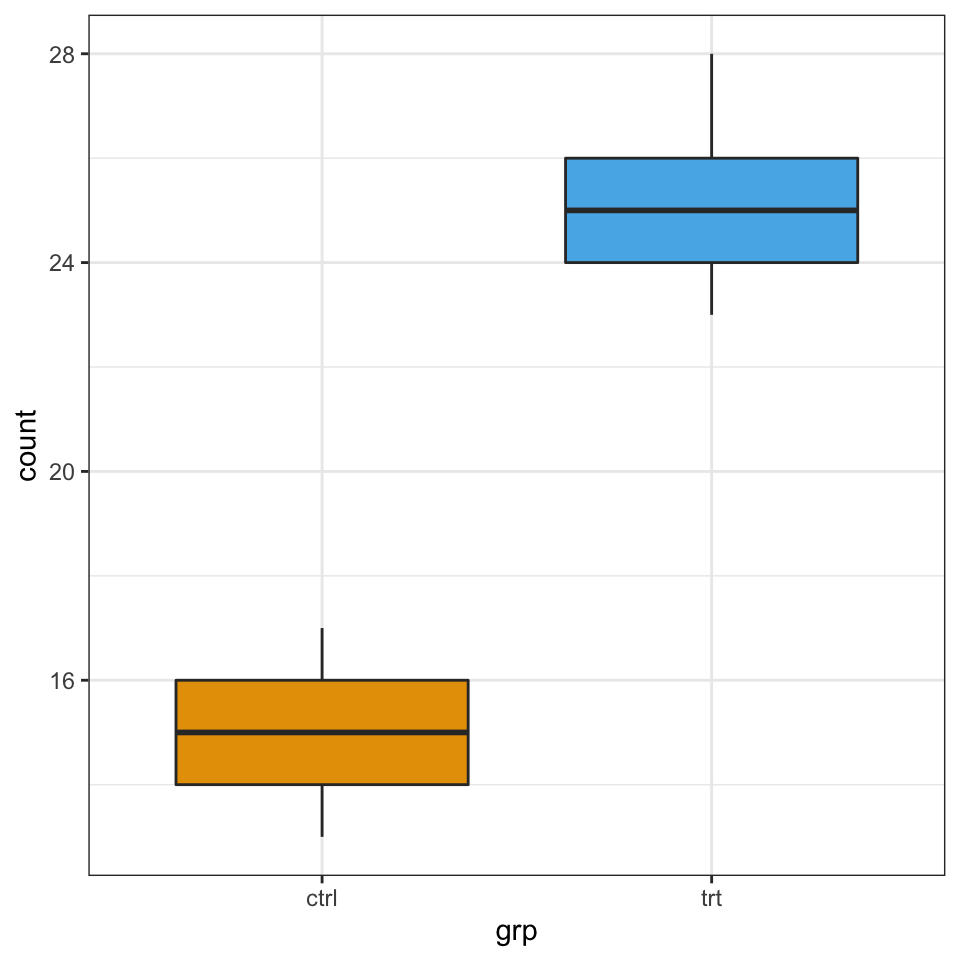
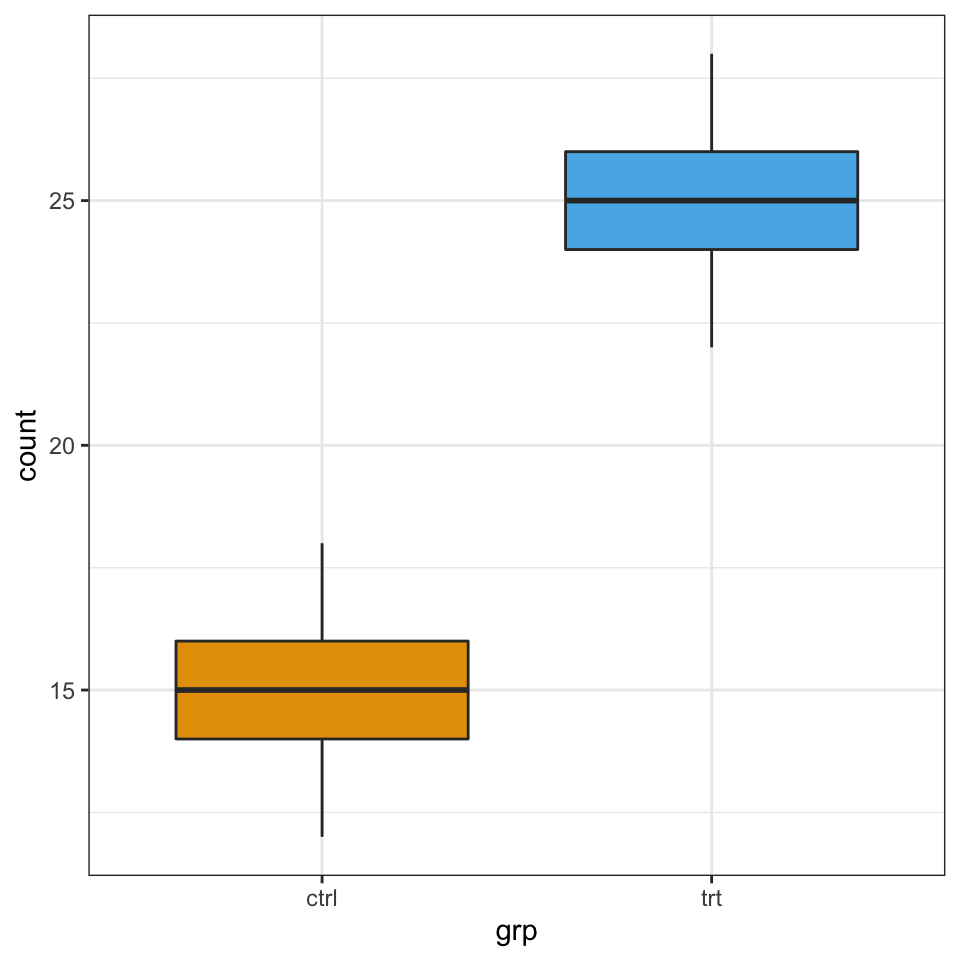
added text

diff --git a/docs/eda-distribution.html b/docs/eda-distribution.html
@@ -563,8 +563,11 @@ div.csl-indent {
   <li><a href="#daten-f%C3%BCr-verteilungen" id="toc-daten-für-verteilungen" class="nav-link" data-scroll-target="#daten-f%C3%BCr-verteilungen"> <span class="header-section-number">18.2</span> Daten für Verteilungen</a></li>
   <li><a href="#sec-normal" id="toc-sec-normal" class="nav-link" data-scroll-target="#sec-normal"> <span class="header-section-number">18.3</span> Die Normalverteilung</a></li>
   <li><a href="#die-standardnormalverteilung" id="toc-die-standardnormalverteilung" class="nav-link" data-scroll-target="#die-standardnormalverteilung"> <span class="header-section-number">18.4</span> Die Standardnormalverteilung</a></li>
-  <li><a href="#sec-poisson" id="toc-sec-poisson" class="nav-link" data-scroll-target="#sec-poisson"> <span class="header-section-number">18.5</span> Die Poissonverteilung</a></li>
-  <li><a href="#weitere-verteilungen" id="toc-weitere-verteilungen" class="nav-link" data-scroll-target="#weitere-verteilungen"> <span class="header-section-number">18.6</span> Weitere Verteilungen</a></li>
+  <li><a href="#sec-t-dist" id="toc-sec-t-dist" class="nav-link" data-scroll-target="#sec-t-dist"> <span class="header-section-number">18.5</span> Die t-Verteilung</a></li>
+  <li><a href="#sec-poisson" id="toc-sec-poisson" class="nav-link" data-scroll-target="#sec-poisson"> <span class="header-section-number">18.6</span> Die Poissonverteilung</a></li>
+  <li><a href="#sec-uniform" id="toc-sec-uniform" class="nav-link" data-scroll-target="#sec-uniform"> <span class="header-section-number">18.7</span> Die uniforme Verteilung</a></li>
+  <li><a href="#sec-binom" id="toc-sec-binom" class="nav-link" data-scroll-target="#sec-binom"> <span class="header-section-number">18.8</span> Die Binominalverteilung</a></li>
+  <li><a href="#weitere-verteilungen" id="toc-weitere-verteilungen" class="nav-link" data-scroll-target="#weitere-verteilungen"> <span class="header-section-number">18.9</span> Weitere Verteilungen</a></li>
   <li><a href="#referenzen" id="toc-referenzen" class="nav-link" data-scroll-target="#referenzen">Referenzen</a></li>
   </ul></nav>
     </div>
@@ -584,7 +587,7 @@ div.csl-indent {
   </div>
   
 
-</header><p><em>Version vom November 11, 2022 um 15:28:11</em></p>
+</header><p><em>Version vom November 14, 2022 um 11:16:39</em></p>
 <div class="cell">
 
 </div>
@@ -877,8 +880,44 @@ div.csl-indent {
 \mathcal{N}(0, 1)
 \]</span></p>
 <p>Folgende Eigenschaften sind der Standardnormalverteilung gegeben. Die Standardnormalverteilung hat eine Fläche von <span class="math inline">\(A = 1\)</span> unter der Kurve. Darüber hinaus liegen 95% der Werte zwischen -2 und 2. Die einzelnen Werte einer Standardnormalverteilung nennen wir <span class="math inline">\(z\)</span>-Werte. Wenn wir eine beliebige Normalverteilung in eine Standardnormalverteilung überführen wollen so machen wir die Umwandlung mit der <span class="math inline">\(z\)</span>-Transformation.</p>
-</section><section id="sec-poisson" class="level2 page-columns page-full" data-number="18.5"><h2 data-number="18.5" class="anchored" data-anchor-id="sec-poisson">
-<span class="header-section-number">18.5</span> Die Poissonverteilung</h2>
+<p><span class="math inline">\(Pr(X \leq x)\)</span> mit <code>lower.tail = TRUE</code></p>
+<p><span class="math inline">\(Pr(X &gt; x)\)</span> mit <code>lower.tail = FALSE</code></p>
+<div class="cell">
+<div class="sourceCode" id="cb5"><pre class="downlit sourceCode r code-with-copy"><code class="sourceCode R"><span><span class="fu"><a href="https://rdrr.io/r/stats/Normal.html">pnorm</a></span><span class="op">(</span>q <span class="op">=</span> <span class="fl">1.96</span>, mean <span class="op">=</span> <span class="fl">0</span>, sd <span class="op">=</span> <span class="fl">1</span>, lower.tail <span class="op">=</span> <span class="cn">FALSE</span><span class="op">)</span> <span class="op">%&gt;%</span> <span class="fu"><a href="https://rdrr.io/r/base/Round.html">round</a></span><span class="op">(</span><span class="fl">3</span><span class="op">)</span></span></code><button title="In die Zwischenablage kopieren" class="code-copy-button"><i class="bi"></i></button></pre></div>
+<div class="cell-output cell-output-stdout">
+<pre><code>[1] 0.025</code></pre>
+</div>
+</div>
+<div class="cell">
+<div class="sourceCode" id="cb7"><pre class="downlit sourceCode r code-with-copy"><code class="sourceCode R"><span><span class="fu"><a href="https://rdrr.io/r/stats/Normal.html">qnorm</a></span><span class="op">(</span>p <span class="op">=</span> <span class="fu"><a href="https://rdrr.io/r/base/c.html">c</a></span><span class="op">(</span><span class="fl">0.025</span>, <span class="fl">0.05</span><span class="op">)</span>, mean <span class="op">=</span> <span class="fl">0</span>, sd <span class="op">=</span> <span class="fl">1</span>, lower.tail <span class="op">=</span> <span class="cn">FALSE</span><span class="op">)</span> <span class="op">%&gt;%</span> <span class="fu"><a href="https://rdrr.io/r/base/Round.html">round</a></span><span class="op">(</span><span class="fl">3</span><span class="op">)</span></span></code><button title="In die Zwischenablage kopieren" class="code-copy-button"><i class="bi"></i></button></pre></div>
+<div class="cell-output cell-output-stdout">
+<pre><code>[1] 1.960 1.645</code></pre>
+</div>
+</div>
+<div class="cell">
+<div class="sourceCode" id="cb9"><pre class="downlit sourceCode r code-with-copy"><code class="sourceCode R"><span><span class="fu"><a href="https://rdrr.io/r/stats/Normal.html">qnorm</a></span><span class="op">(</span>p <span class="op">=</span> <span class="fl">0.05</span>, mean <span class="op">=</span> <span class="fl">0</span>, sd <span class="op">=</span> <span class="fl">1</span>, lower.tail <span class="op">=</span> <span class="cn">TRUE</span><span class="op">)</span> <span class="op">%&gt;%</span> <span class="fu"><a href="https://rdrr.io/r/base/Round.html">round</a></span><span class="op">(</span><span class="fl">3</span><span class="op">)</span></span></code><button title="In die Zwischenablage kopieren" class="code-copy-button"><i class="bi"></i></button></pre></div>
+<div class="cell-output cell-output-stdout">
+<pre><code>[1] -1.645</code></pre>
+</div>
+</div>
+</section><section id="sec-t-dist" class="level2" data-number="18.5"><h2 data-number="18.5" class="anchored" data-anchor-id="sec-t-dist">
+<span class="header-section-number">18.5</span> Die t-Verteilung</h2>
+<p><span class="math inline">\(Pr(X \leq x)\)</span> mit <code>lower.tail = TRUE</code></p>
+<p><span class="math inline">\(Pr(X &gt; x)\)</span> mit <code>lower.tail = FALSE</code></p>
+<div class="cell">
+<div class="sourceCode" id="cb11"><pre class="downlit sourceCode r code-with-copy"><code class="sourceCode R"><span><span class="fu"><a href="https://rdrr.io/r/stats/TDist.html">pt</a></span><span class="op">(</span>q <span class="op">=</span> <span class="fl">2.571</span>, df <span class="op">=</span> <span class="fl">5</span>, lower.tail <span class="op">=</span> <span class="cn">FALSE</span><span class="op">)</span> <span class="op">%&gt;%</span> <span class="fu"><a href="https://rdrr.io/r/base/Round.html">round</a></span><span class="op">(</span><span class="fl">3</span><span class="op">)</span></span></code><button title="In die Zwischenablage kopieren" class="code-copy-button"><i class="bi"></i></button></pre></div>
+<div class="cell-output cell-output-stdout">
+<pre><code>[1] 0.025</code></pre>
+</div>
+</div>
+<div class="cell">
+<div class="sourceCode" id="cb13"><pre class="downlit sourceCode r code-with-copy"><code class="sourceCode R"><span><span class="fu"><a href="https://rdrr.io/r/stats/TDist.html">qt</a></span><span class="op">(</span>p <span class="op">=</span> <span class="fu"><a href="https://rdrr.io/r/base/c.html">c</a></span><span class="op">(</span><span class="fl">0.025</span><span class="op">)</span>, df <span class="op">=</span> <span class="fu"><a href="https://rdrr.io/r/base/c.html">c</a></span><span class="op">(</span><span class="fl">5</span>, <span class="fl">10</span>, <span class="fl">20</span>, <span class="fl">100</span><span class="op">)</span>, lower.tail <span class="op">=</span> <span class="cn">FALSE</span><span class="op">)</span> <span class="op">%&gt;%</span> <span class="fu"><a href="https://rdrr.io/r/base/Round.html">round</a></span><span class="op">(</span><span class="fl">3</span><span class="op">)</span></span></code><button title="In die Zwischenablage kopieren" class="code-copy-button"><i class="bi"></i></button></pre></div>
+<div class="cell-output cell-output-stdout">
+<pre><code>[1] 2.571 2.228 2.086 1.984</code></pre>
+</div>
+</div>
+</section><section id="sec-poisson" class="level2 page-columns page-full" data-number="18.6"><h2 data-number="18.6" class="anchored" data-anchor-id="sec-poisson">
+<span class="header-section-number">18.6</span> Die Poissonverteilung</h2>
 <p>Eine weitere wichtige Verteilung ist die Poissonverteilung. Die Poissonverteilung ist eine diskrete Verteilung. Daher kommen nur ganze Zahlen vor. Damit bildet die Poissonverteilung die Zähldaten ab. Wenn wir also etwas Zählen, dann ist diese Variable mit den gezählten Ergebnissen poissonverteilt. Im Folgenden sehen wir die Poissonverteilung einmal dargestellt.</p>
 <p><span class="math display">\[
 \mathcal{Pois}(\lambda)
@@ -917,7 +956,7 @@ div.csl-indent {
 </div>
 <p>Wir können die Funktion <code><a href="https://rdrr.io/r/stats/Poisson.html">rpois()</a></code> nutzen um uns zufällige Zahlen aus der Poissonverteilung ziehen zu lassen. Dazu müssen wir mit <code>n =</code> spezifizieren wie viele Beobachtungen wir wollen und den Mittelwert <code>lambda =</code> angeben. Im Folgenden einmal ein Beispiel für die Nutzung der Funktion <code><a href="https://rdrr.io/r/stats/Poisson.html">rpois()</a></code> mit zehn Werten.</p>
 <div class="cell">
-<div class="sourceCode" id="cb5"><pre class="downlit sourceCode r code-with-copy"><code class="sourceCode R"><span><span class="fu"><a href="https://rdrr.io/r/stats/Poisson.html">rpois</a></span><span class="op">(</span>n <span class="op">=</span> <span class="fl">10</span>, lambda <span class="op">=</span> <span class="fl">5</span><span class="op">)</span></span></code><button title="In die Zwischenablage kopieren" class="code-copy-button"><i class="bi"></i></button></pre></div>
+<div class="sourceCode" id="cb15"><pre class="downlit sourceCode r code-with-copy"><code class="sourceCode R"><span><span class="fu"><a href="https://rdrr.io/r/stats/Poisson.html">rpois</a></span><span class="op">(</span>n <span class="op">=</span> <span class="fl">10</span>, lambda <span class="op">=</span> <span class="fl">5</span><span class="op">)</span></span></code><button title="In die Zwischenablage kopieren" class="code-copy-button"><i class="bi"></i></button></pre></div>
 <div class="cell-output cell-output-stdout">
 <pre><code> [1] 3 5 4 5 3 3 9 3 5 5</code></pre>
 </div>
@@ -991,8 +1030,30 @@ div.csl-indent {
 <p></p><figcaption aria-hidden="true" class="figure-caption">Abbildung 18.8— Histogramme der am liebsten gemochten Gummibärchchen im Vergleich zum Inhalt der Tütchen.</figcaption><p></p>
 </figure>
 </div>
-</section><section id="weitere-verteilungen" class="level2 page-columns page-full" data-number="18.6"><h2 data-number="18.6" class="anchored" data-anchor-id="weitere-verteilungen">
-<span class="header-section-number">18.6</span> Weitere Verteilungen</h2>
+</section><section id="sec-uniform" class="level2" data-number="18.7"><h2 data-number="18.7" class="anchored" data-anchor-id="sec-uniform">
+<span class="header-section-number">18.7</span> Die uniforme Verteilung</h2>
+<div class="cell" data-layout-align="center">
+<div class="cell-output-display">
+<div id="fig-gummi-uniform" class="quarto-figure quarto-figure-center anchored">
+<figure class="figure"><p><img src="eda-distribution_files/figure-html/fig-gummi-uniform-1.png" class="img-fluid figure-img" width="480"></p>
+<p></p><figcaption aria-hidden="true" class="figure-caption">Abbildung 18.9— Beispiel für eine uniforme Verteilung anhand der Anzahl der Gummibärchen pro Tüte nach Farbe</figcaption><p></p>
+</figure>
+</div>
+</div>
+</div>
+</section><section id="sec-binom" class="level2" data-number="18.8"><h2 data-number="18.8" class="anchored" data-anchor-id="sec-binom">
+<span class="header-section-number">18.8</span> Die Binominalverteilung</h2>
+<div class="cell" data-layout-align="center">
+<div class="cell-output-display">
+<div id="fig-gummi-binom" class="quarto-figure quarto-figure-center anchored">
+<figure class="figure"><p><img src="eda-distribution_files/figure-html/fig-gummi-binom-1.png" class="img-fluid figure-img" width="480"></p>
+<p></p><figcaption aria-hidden="true" class="figure-caption">Abbildung 18.10— Beispiel für eine Binomialverteilung anhand des Geschlechts. Die fehlenden Angaben wurden entfernt.</figcaption><p></p>
+</figure>
+</div>
+</div>
+</div>
+</section><section id="weitere-verteilungen" class="level2 page-columns page-full" data-number="18.9"><h2 data-number="18.9" class="anchored" data-anchor-id="weitere-verteilungen">
+<span class="header-section-number">18.9</span> Weitere Verteilungen</h2>
 <div class="quarto-figure quarto-figure-center">
 <figure class="figure"><p><img src="images/caution.png" class="img-fluid figure-img" style="width:50.0%"></p>
 </figure>

diff --git a/docs/stat-modeling-poisson.html b/docs/stat-modeling-poisson.html
@@ -585,7 +585,7 @@ div.csl-indent {
 </header><div class="cell">
 
 </div>
-<p><em>Version vom November 14, 2022 um 10:30:45</em></p>
+<p><em>Version vom November 14, 2022 um 10:53:40</em></p>
 <div class="callout-tip callout callout-style-default callout-captioned">
 <div class="callout-header d-flex align-content-center">
 <div class="callout-icon-container">
@@ -1005,23 +1005,15 @@ temp        |      0.09 |     0.03 | [ 0.03,  0.16] |  2.85 | 0.004 </code></pre
 </tr>
 <tr class="odd">
 <td style="text-align: center;">ctrl</td>
-<td style="text-align: center;">16</td>
+<td style="text-align: center;">15</td>
 </tr>
 <tr class="even">
 <td style="text-align: center;">ctrl</td>
-<td style="text-align: center;">13</td>
+<td style="text-align: center;">17</td>
 </tr>
 <tr class="odd">
 <td style="text-align: center;">…</td>
 <td style="text-align: center;">…</td>
-</tr>
-<tr class="even">
-<td style="text-align: center;">trt</td>
-<td style="text-align: center;">25</td>
-</tr>
-<tr class="odd">
-<td style="text-align: center;">trt</td>
-<td style="text-align: center;">25</td>
 </tr>
 <tr class="even">
 <td style="text-align: center;">trt</td>
@@ -1029,7 +1021,15 @@ temp        |      0.09 |     0.03 | [ 0.03,  0.16] |  2.85 | 0.004 </code></pre
 </tr>
 <tr class="odd">
 <td style="text-align: center;">trt</td>
-<td style="text-align: center;">24</td>
+<td style="text-align: center;">26</td>
+</tr>
+<tr class="even">
+<td style="text-align: center;">trt</td>
+<td style="text-align: center;">26</td>
+</tr>
+<tr class="odd">
+<td style="text-align: center;">trt</td>
+<td style="text-align: center;">26</td>
 </tr>
 </tbody>
 </table>
@@ -1080,8 +1080,8 @@ temp        |      0.09 |     0.03 | [ 0.03,  0.16] |  2.85 | 0.004 </code></pre
 <div class="cell-output cell-output-stdout">
 <pre><code>Parameter   |   IRR |   SE |         95% CI |      z |      p
 -------------------------------------------------------------
-(Intercept) | 15.01 | 0.39 | [14.26, 15.78] | 104.94 | &lt; .001
-grp [trt]   |  1.67 | 0.05 | [ 1.57,  1.78] |  15.70 | &lt; .001</code></pre>
+(Intercept) | 14.97 | 0.39 | [14.22, 15.74] | 104.70 | &lt; .001
+grp [trt]   |  1.67 | 0.05 | [ 1.57,  1.78] |  15.68 | &lt; .001</code></pre>
 </div>
 </div>
 <p>Als erstes fällt auf, dass wir die Ausgabe des Modells exponieren müssen. Um einen linearen Zusamenhang hinzukriegen bedient sich die Poissonregression den Trick, das der Zusammenhang zwischen dem <span class="math inline">\(y\)</span> und dem <span class="math inline">\(x\)</span> <em>transformiert</em> wird. Wir rechnen unsere Regression nicht auf den echten Daten sondern auf dem <span class="math inline">\(\log\)</span>-scale. Daher müssen wir die Koeffizienten der Poissonregression wieder zurücktransfomieren, wenn wir die Koeffizienten interpretieren wollen. Das können wir mit der Option <code>exponentiate = TRUE</code> durchführen.</p>
@@ -1324,7 +1324,7 @@ rain [wet]  |      83.71 | 178.43 | [1.28, 5459.08] |  2.08 | 0.038</code></pre>
 <p>Tja, und so erfahren wir, dass wir auch noch Overdispersion in unseren Daten vorliegen haben. Wir müsen also beides Modellieren. Einmal modellieren wir die Zeroinflation und einmal die Overdispersion. Wir können beides in einem negativen binominalen Modell fitten. Auch hier hilft die Funktion <code>zeroinfl()</code> mit der Option <code>dist = negbin</code>. Mit der Option geben wir an, dass wir eine negative binominal Verteilungsfamilie wählen. Damit können wir dann auch die Ovrdispersion in unseren Daten modellieren.</p>
 <div class="cell">
 <div class="sourceCode" id="cb48"><pre class="downlit sourceCode r code-with-copy"><code class="sourceCode R"><span><span class="va">lizard_zero_nb_intercept_fit</span> <span class="op">&lt;-</span> <span class="fu">zeroinfl</span><span class="op">(</span><span class="va">lizard</span> <span class="op">~</span> <span class="va">grp</span> <span class="op">+</span> <span class="va">rain</span> <span class="op">+</span> <span class="va">pop</span> <span class="op">|</span> <span class="fl">1</span>, </span>
-<span>                                          dist <span class="op">=</span> <span class="st">"negbin"</span>, data <span class="op">=</span> <span class="va">lizard_zero_tbl</span><span class="op">)</span></span></code><button title="In die Zwischenablage kopieren" class="code-copy-button"><i class="bi"></i></button></pre></div>
+<span>                                         dist <span class="op">=</span> <span class="st">"negbin"</span>, data <span class="op">=</span> <span class="va">lizard_zero_tbl</span><span class="op">)</span></span></code><button title="In die Zwischenablage kopieren" class="code-copy-button"><i class="bi"></i></button></pre></div>
 </div>
 <p>Dann schauen wir usn einmal das Modell an. Zum einen sehen wir, dass der Effekt ähnlich groß ist, wie bei dem Intercept Modell der Funktion <code>zeroinfl</code>. Auch bleiben die Signifikanzen ähnlich.</p>
 <div class="cell">
@@ -1664,7 +1664,7 @@ Parameter   | Odds Ratio |   SE |       95% CI |     z |     p
 </div>
 </div>
 </div>
-<p>Die beiden Intercept Modelle haben die kleinsten <span class="math inline">\(AIC\)</span>-Werte der vier Modelle. Darüber hinaus haben dann beide Modelle auch die höchsten <span class="math inline">\(R^2_{adj}\)</span> Werte. Beide Modelle erklären also im Verhältnis viel Varianz mit 58.5%. Auch ist der <span class="math inline">\(RMSE\)</span> Wert als Fehler bei beiden Modellen am kleinsten. Damit haben wir die Qual der Wahl, welches Modell wir nehmen. Ich würde das negative binominal Modell nehmen. Wir haben ins unseren Daten vermutlich eine Zeroinflation sowie eine Overdispersion vorliegen. Daher bietest es sich an, beides in einer negativen binominalen Regression zu berücksichtigen.</p>
+<p>Die beiden Intercept Modelle haben die kleinsten <span class="math inline">\(AIC\)</span>-Werte der vier Modelle. Darüber hinaus haben dann beide Modelle auch die höchsten <span class="math inline">\(R^2_{adj}\)</span> Werte. Beide Modelle erklären also im Verhältnis viel Varianz mit 58.5%. Auch ist der <span class="math inline">\(RMSE\)</span> Wert als Fehler bei beiden Modellen am kleinsten. Damit haben wir die Qual der Wahl, welches Modell wir nehmen. Ich würde das negative binominal Modell nehmen. Wir haben ins unseren Daten vermutlich eine Zeroinflation sowie eine Overdispersion vorliegen. Daher bietest es sich an, beides in einer negativen binominalen Regression zu berücksichtigen. Zwar sind die beiden Intercept Modelle in diesem Beispielfall von den Koeffizienten fast numerisch gleich, aber das hat eher mit dem reduzierten Beispiel zu tun, als mit dem eigentlichen Modell. In unserem Fall ist die Overdispersion nicht so extrem.</p>
 <p>Wie sehe den unser negative binominal Modell aus, wenn wir mit dem Modell einmal die zu erwartenden Eidechsen vorhersagen würden? Auch das kann helfen um abzuschätzen, ob das Modelle einigermaßen funktioniert hat. Wir haben ja hier den Vorteil, dass wir nur mit kategorialen Daten arbeiten. Wir haben keine kontiniuerlichen Variablen vorliegen und darüber hinaus auch nicht so viele Variablen insgesamt.</p>
 <p>Daher bauen wir uns mit <code>expand_grid()</code> erstmal einen Datensatz, der nur aus den Faktorkombinationen besteht. Wir haben also nur eine Beobachtung je Faktorkombination. Danach nutzen wir die Daten einmal in der Funktion <code><a href="https://rdrr.io/r/stats/predict.html">predict()</a></code> um uns die vorhergesagten Eidechsen nach dem gefitten Modell wiedergeben zu lassen.</p>
 <div class="cell">
